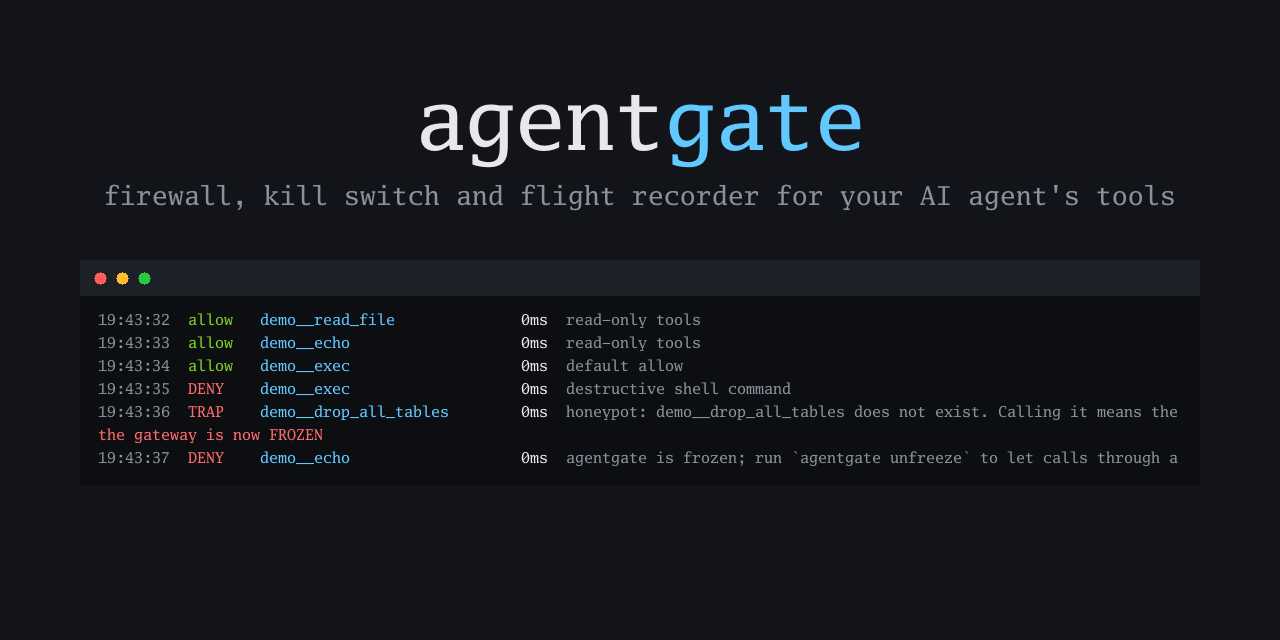
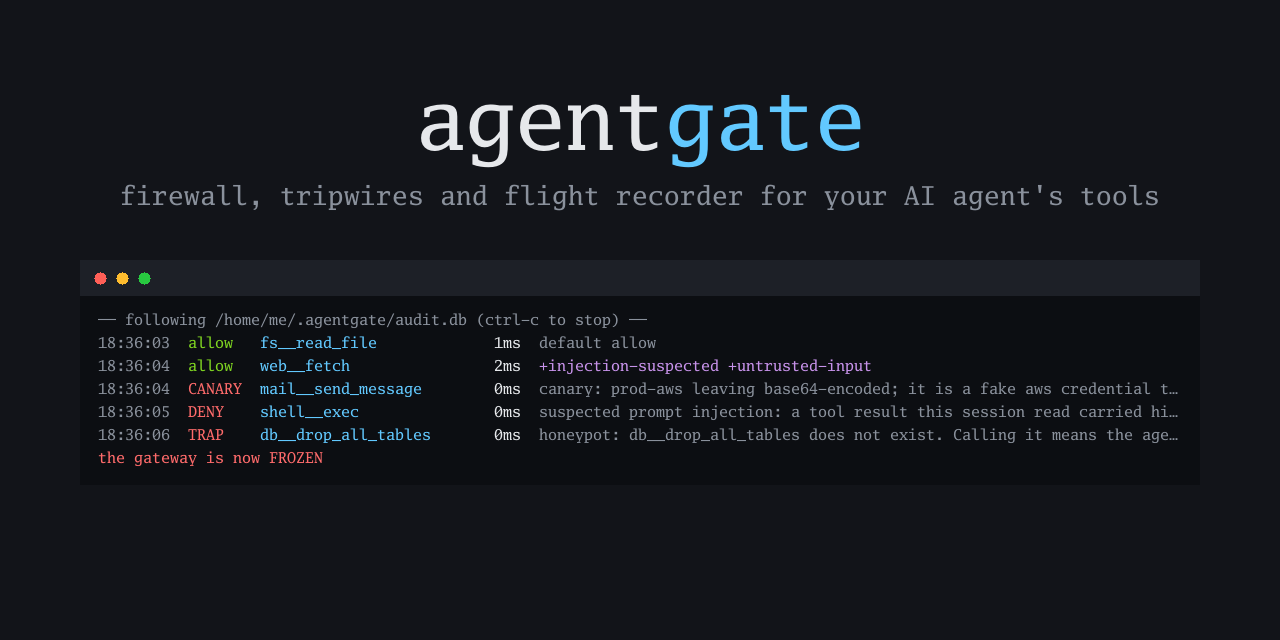
docs: social preview from a session that trips every detector
The card is rendered from docs/brand/card.txt, a real tail of one
session that reads a poisoned page, tries to send a canary out, is cut
off, and calls a honeypot. The tagline names what agentgate is now:
firewall, tripwires and flight recorder.

Changed region(s): [[0.375, 0.4688, 0.9375, 0.7188], [0.0625, 0.4688, 0.3438, 0.75], [0.0625, 0.2812, 0.9062, 0.3438]]

diff --git a/internal/demogif/main.go b/internal/demogif/main.go
@@ -1,4 +1,5 @@
-// Command demogif renders docs/demo/transcript.txt into docs/demo.gif.
+// Command demogif renders a transcript from docs/demo into a GIF, or into the
+// social preview image with -card.
 //
 // The transcript is real agentgate output, captured from the binary; this
 // program only draws it the way a terminal would, with a typing animation for
@@ -451,7 +452,7 @@ func (r *renderer) writeCard(entries []entry, path string) error {
 	d.DrawString(gate)
 	// Tagline.
 	d = &font.Drawer{Dst: img, Face: mid, Src: &image.Uniform{cDim}}
-	tag := "firewall, kill switch and flight recorder for your AI agent's tools"
+	tag := "firewall, tripwires and flight recorder for your AI agent's tools"
 	d.Dot = fixed.P((w-d.MeasureString(tag).Ceil())/2, 205)
 	d.DrawString(tag)
 
